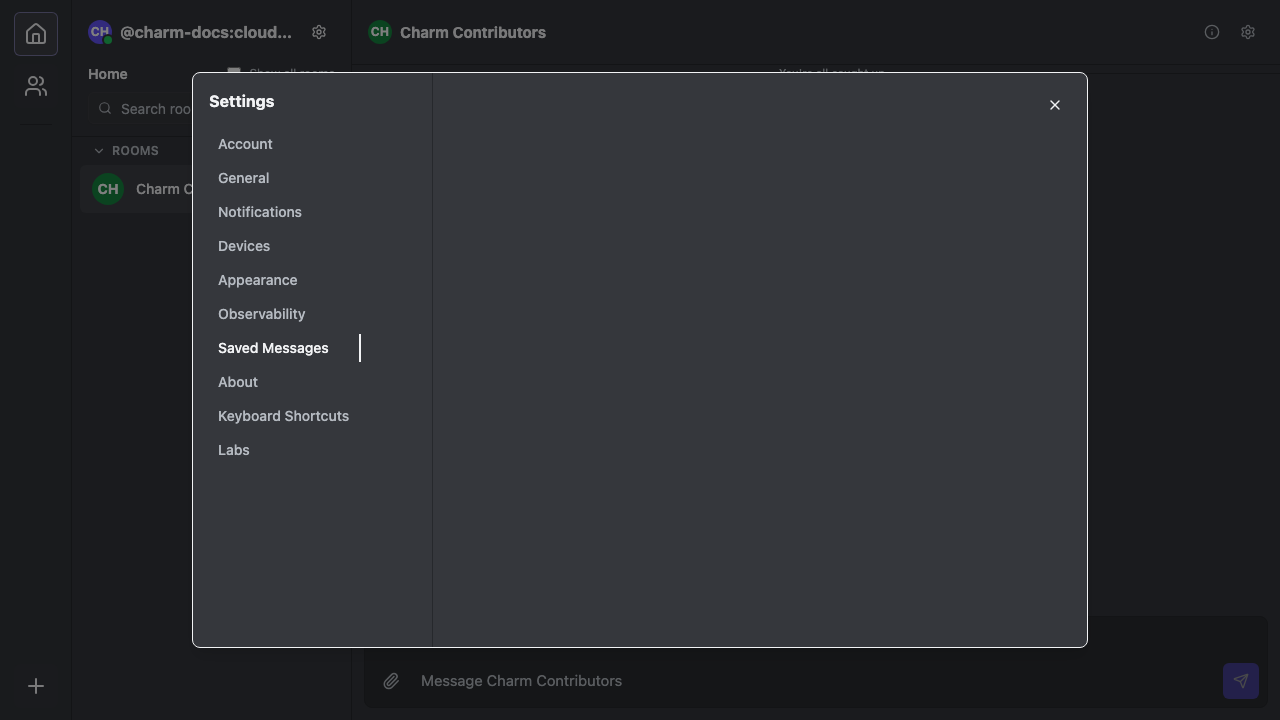
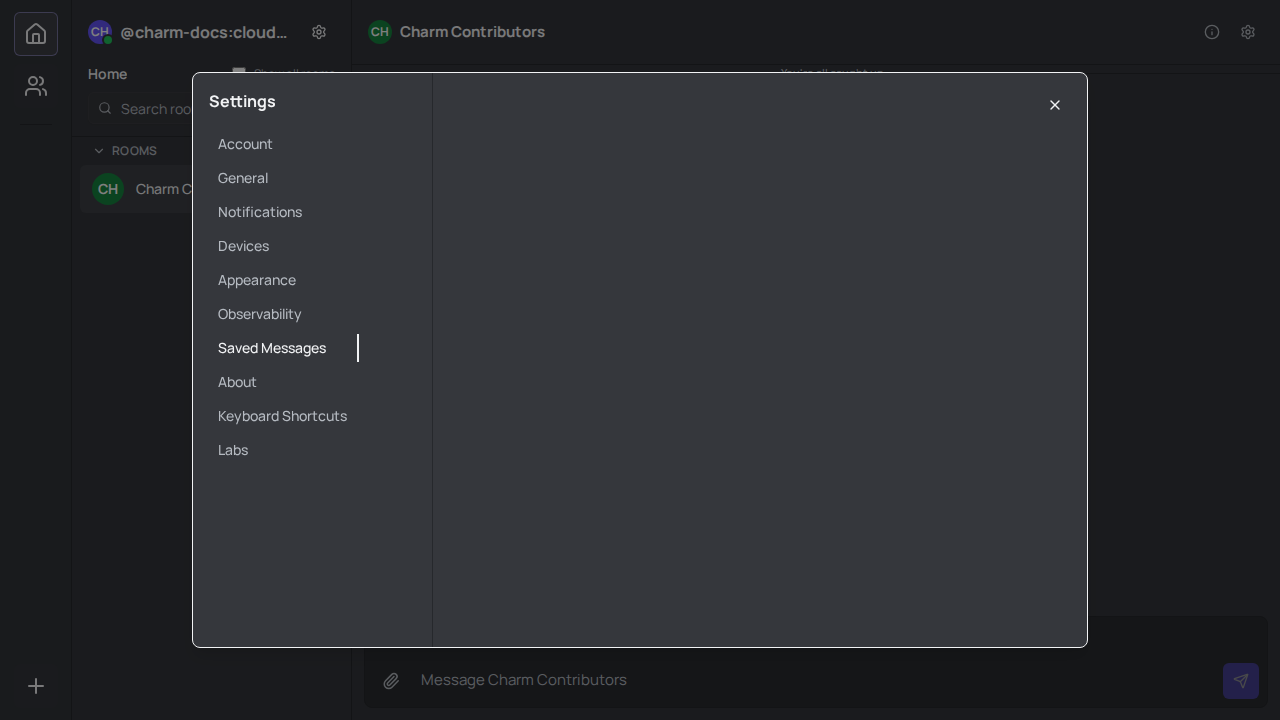
fix: clippy unnecessary_sort_by and use CI-rendered feature screenshot
- sort_by -> sort_by_key(Reverse(..)) in list_bookmarks (clippy -D warnings
  caught this on CI; my local clippy run had a stale incremental build that
  didn't recheck this line).
- Replace the locally-generated (macOS) bookmarks-saved-messages.png with
  the actual PNG captured by CI's e2e-snapshots job (Linux/headless
  Chromium), downloaded from the sentry-e2e-snapshots-294 artifact — the
  locally-rendered baseline differed by ~1% of pixels from CI's rendering
  (font hinting/antialiasing), which the pixel-diff step correctly flagged.

diff --git a/src-tauri/src/matrix/bookmarks.rs b/src-tauri/src/matrix/bookmarks.rs
@@ -233,7 +233,7 @@ pub async fn list_bookmarks(
 ) -> Result<Vec<BookmarkEntry>, String> {
     let account_key = account_key_for_current_user(&state).await?;
     let mut bookmarks: Vec<StoredBookmark> = persistence::load_bookmarks(&app, &account_key)?;
-    bookmarks.sort_by(|a, b| b.saved_at_ms.cmp(&a.saved_at_ms));
+    bookmarks.sort_by_key(|b| std::cmp::Reverse(b.saved_at_ms));
 
     let client = state.require_client().await.ok();
     let media_cache = state.require_media_cache(&app).await.ok();